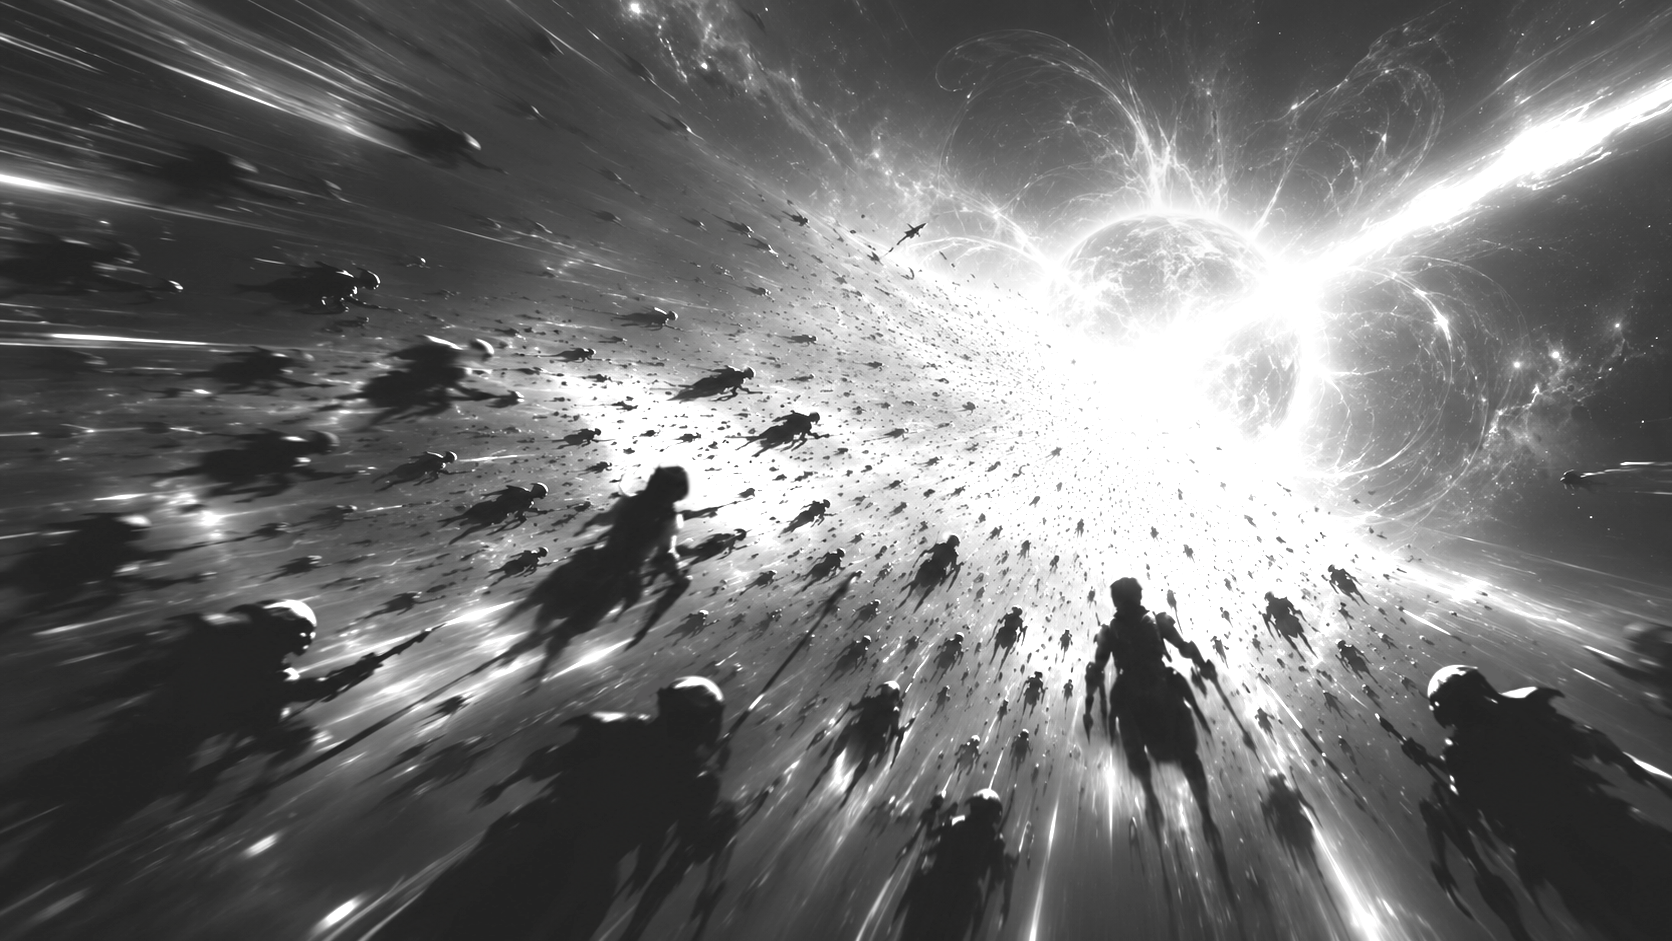
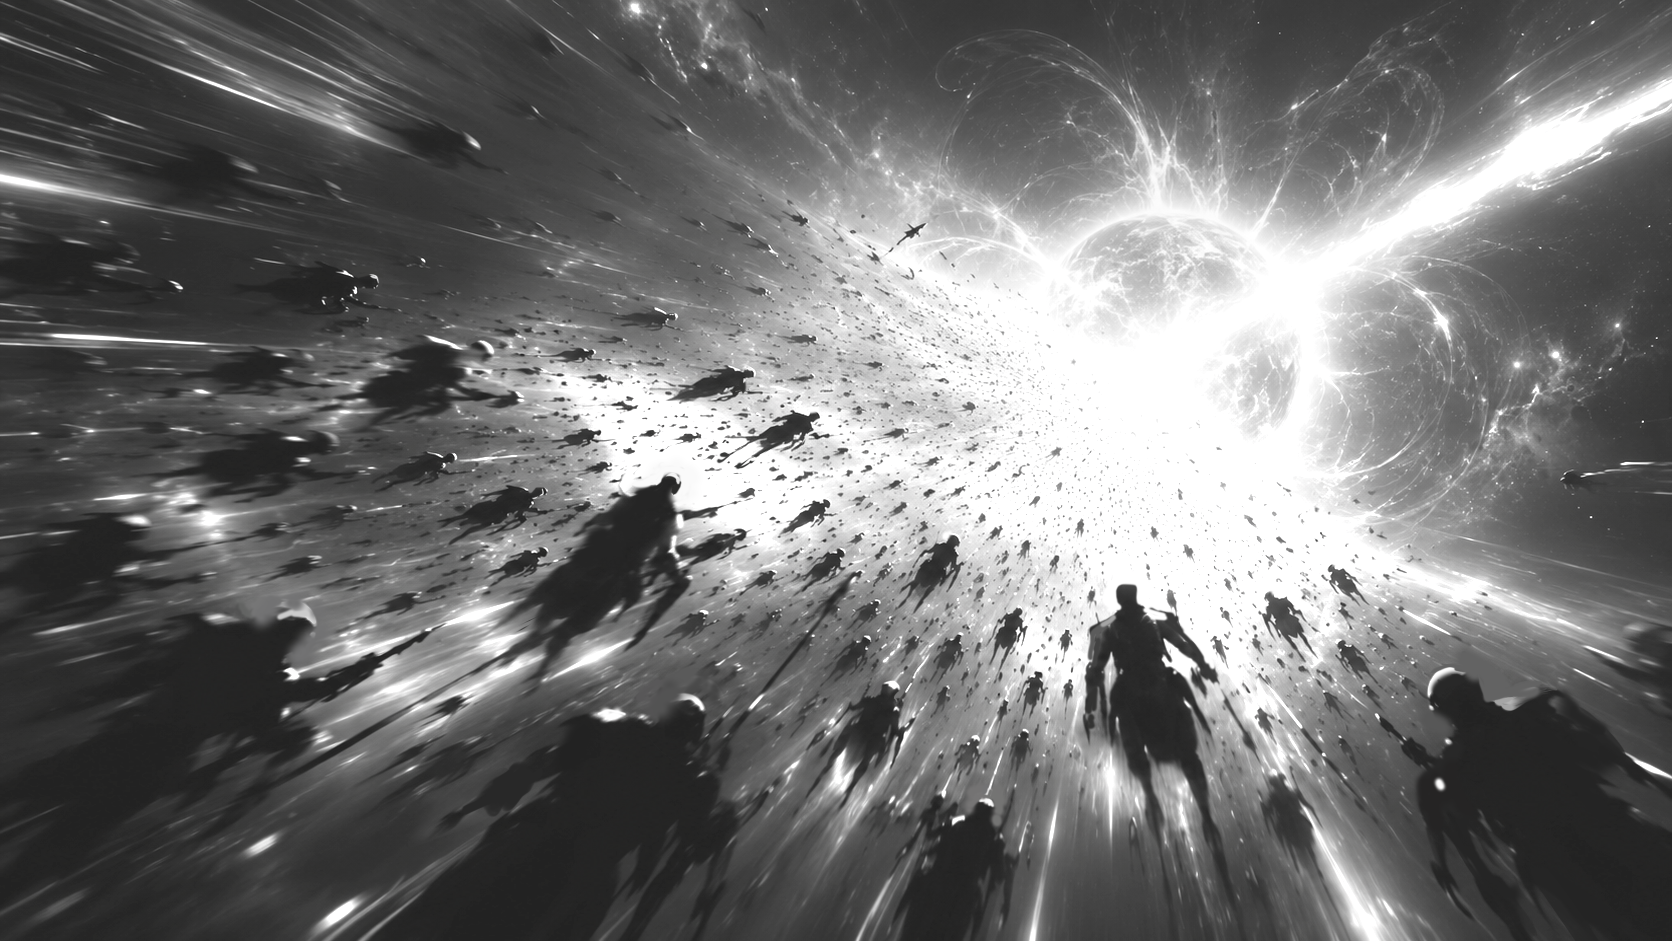
Add files via upload

diff --git a/URIER.html b/URIER.html
@@ -151,7 +151,7 @@
 									　　从主干道更深入往里走终于到了中央巢室，在这里遇到了几个岔口。<br>
 									　　大伙讨论后决定分成两组行动。亚瑟和蓋文本就都是非常优秀的帝国战士，由他们俩一组。水平在二人之上的元帅则和见习生走另一条路。<br><br>
 
-									　　身为虫族之首，他知道自己即将步上的是前往王室的通道。<br>
+									　　身为虫族之首，他知道这条通道便是通往王室的方向。<br>
 									　　王室相当于虫母与王虫的主宫室，最靠外的位置是王虫所在的大堂，更靠内是王虫的寝宫，最深处才是虫母所在的母巢，也是整个虫巢最核心的位置。<br>
 									　　通往王室的路线非常长，在真正进入王室以前还需要穿过几个宫室，这样的宫室是高阶虫族的主要活动区域，在整个虫巢中有成百上千个，主要集中于中央巢室，并且结构十分复杂。<br>
 									　　即便已经荒废多年仍然能够看出彼时的巍峨壮丽，时不时也会出现一些图像、雕刻，还有类似文字图样之类的痕迹，两人便会将一切记录下来。<br>
@@ -164,6 +164,7 @@
 
 									　　抵达的母巢侧室，这里破败得不成样子，倒塌的柱和墙掩埋了很多东西，需要更加耐心的搜索。<br>
 									　　乌利艾尔忍受着头疼在巨大的母巢中搜索。他的目光因被一个不起眼的位置吸引而定格——那是一具非成体<a href="世界观：深渊.html#帕瓦拉">帕瓦拉</a>的遗骸。看样子应该是在虫族离开以后才进入的，但无论如何这都十分异常。<br>
+									　　这是一种来自宇宙<a href="世界观：深渊.html">深渊</a>的生物，与虫族为互食关系。<br>
 									　　帕瓦拉虽然会为了狩猎虫族而短暂远离深渊入口，但据他所知距离这里最近的深渊入口少说也得在210万宙里外，这片星域应该绝非帕瓦拉的出没范围。<br>
 									　　更令人不安的是遗骸身上的那些痕迹，他再熟悉不过了。是帕瓦拉死亡后，一种与其共生的生物为了离开宿主所凿开的洞。<br>
 									　　他将精力全部投注在思考，并没有发现刚才的疼痛逐渐被一股热浪取代。当埃德蒙大致完成部分的搜索，准备去找另一边的少年时才意识到不对劲。<br><br>
@@ -250,7 +251,7 @@
 									　　既然Alpha不愿意那就算了，虽然意识和脚步还是有点飘忽，他也不想在这件事情上继续浪费时间。<br>									
 									　　他俯身观察，发觉这几只骰子还真不是普通得肥，至少在他121年的虫生都没看过这么肥美的。除了这两个人类和角落那只帕瓦拉以外，肯定还吃了其他好吃的。<br><br>
 																	
-									　　骰子的精神力能够影响虫族，导致致幻、兴奋的效果，不过这东西的智力不高，本体也很脆弱，平时都是依附着帕瓦拉生存。但这点要是被人类知道还被加以利用，事情可能会变得麻烦。<br>
+									　　骰子的精神力能够影响虫族，导致致幻、兴奋的效果，不过这东西的智力不高，本体也很脆弱，平时都是依附着帕瓦拉生存。但这点要是被人类知道还被加以利用，事情可能会变得复杂。<br>
 									　　现在最麻烦的是不知道闯进虫巢的帕瓦拉是否只有这一只，帕瓦拉作为深渊生物绝非人类肉身能够抗衡的，就连机甲足不足以对抗都是未知数，虫巢的空间也难以完全驱动机甲。<br><br>
 									
 									　　正思考着，一股热流伴随着眩晕又席卷而来。<br>
@@ -362,13 +363,61 @@
 									　　新的学期开始后，乌利艾尔的成绩相比于去年完全可以说是用突飞猛进来形容，上个学期拼死训练才拿到的综合第九如今都不值一提。<br>
 									　　临近成年，虫族的基因正以远超先前的速度校正这副人类躯体，照现在的走势，用不了多久他就能重新触及虫族的<a href="世界观：虫族.html#精神网">精神网</a>。<br><br>
 
-									　　乌利艾尔的新室友是一位Beta，对方就读的是科研学院，从此人身上他了解了更多关于虫母基因开发的项目。<br>
+									　　乌利艾尔的新室友是一位就读科研学院Beta，他从此人身上了解到更多关于虫母基因开发的项目。<br>
 									　　其中目前重点开发的是可以反向破坏虫族外骨骼的机甲武器。在前两次的虫族战争中，人类对虫族坚实的防御束手无策，如今也因为虫母有了突破。<br>
-									　　据说这种新型武器不止能适用于虫族，机甲本身的攻击性能也有显著的提升，只不过现在还无法得知这些项目的进度进展到什么程度。<br>									
-									　　由于活体虫母是重要的研究样本，所以现有用于实验的细胞都是以人工培育的为主。虫母本体则作为人类捕获过的最危险生物个体，目前被安置于某个最高保密层级的军事研究基地，除去参与研究计划的核心人员以及帝国高层，没有人知道具体地点。<br><br>
+									　　据说这种新型武器不止能适用于虫族，机甲本身的攻击性能也有显著的提升，只不过现在还无法得知这些项目进展到什么程度。<br>									
+									　　由于活体虫母是重要的研究样本，所以目前用于实验的细胞都是以人工培育的为主。虫母本体则作为人类捕获过的最危险生物个体，被安置于某个最高保密层级的军事研究基地，除去参与研究计划的核心人员以及帝国高层，没有人知道具体地点。<br><br>
 
-									　　另一方面，东境近期民用运输舰被星盗劫掠的事件频发。<br>
-									　　旧联邦分裂后，绝大部分被尤里奥统一为现在的帝国。而另一部分拒绝服从于帝国的军权则在外自立门户，久而久之演变为了所谓的星际海盗。<br>
+									　　另一方面，从几个月前开始，帝国东境近期民用运输舰被星盗劫掠的事件频发。<br>
+									　　旧联邦分裂后，绝大部分被尤里奥家族统一为现在的帝国。而另一部分拒绝服从于帝国的军权则在外自立门户，久而久之演变为掠夺资源、主导各种地下交易，为了利益可以不择手段<a href="世界观：星盗.html">星际海盗</a>。<br>
+									　　他们最大的特点便是强者为尊，只要一代领袖衰弱，马上就会有新的竞争者顶替上。所谓的服从都是建立在绝对的力量前，从不存在绝对的忠诚或背叛。<br><br>
+
+									　　只是近期出现的这批星盗与以往很反常，总是神出鬼没的。如果只是普通的跃迁势必会留下轨迹，可他们却每次都在帝国军队抵达前就如同人间蒸发一般消失得无影无踪。<br>
+									　　幸运得是这群人在星盗中应该只是些奔着劫财来的小喽喽，至今还没有造成什么严重的事故，死伤案例也不高，顶多就是些财务上的损失。<br>
+									　　扑了几次空以后，军方总算从各方线索里掌握了他们的聚点位置。<br><br>
+
+									　　完成本学期最后一门考试，乌利艾尔的智脑突然收到一条集合通知。现场聚集了十六个人，各个都是军校综合成绩名列前茅的明日之星。<br>
+									　　随着一声冷咳终止了学生们的话语声，一名年轻Alpha出现在视野，他们马上认出了这个人，是东境军的希拉里少校。<br>
+									　　只要是军校里的学生，没人不认识希拉里。在军校时就被誉为机甲天才的SS级Alpha，才进入军队四年就破了单人年捕获击杀星盗数最高的记录，年仅二十六岁已经获得少校军衔。<br><br>
+
+									　　希拉里宣布本次东境星盗的剿灭行动，在场将有四名学生共同前往。这在军校是常规操作，一些被认定强度较低的任务会让军校中成绩优秀的学生提早接触实战，如果在实战中表现良好对未来进入军队后会更有优势。<br>
+									　　会先由校方提供名单，再根据任务的人数选拔出适任者。毕竟实战是有一定危险性，所以选拔并非强制的，不过一般不会有人拒绝这种好机会。<br>
+									　　他们有几天时间可以考虑，选拔将在五日后进行。<br><br>
+
+									　　选拔日当天十六人全部出席，时间一到士官开始说明规则。<br>
+									　　本次採淘汰赛制，他们先被分为八组，两两进行机甲对战。上午为自由练习，选拔从下午开始正式开始。<br>
+									　　规则说明结束，乌利艾尔本打算观察一下环境，一道熟悉的身影出现在他眼前。<br>
+									　　札雷克也在十六人之中，他走到Omega面前，满脸不悦地邀请乌利艾尔去一旁私下谈话。<br><br>
+
+									　　两人来到一旁的树林，札雷克也懒得再拐弯抹角，开门见山地进入正题。<br>
+									　　起初，他只是用嘲讽的语气质问乌利艾尔，上次勘察的事还没闹够，这次居然还想参加选拔？乌利艾尔依旧面无表情，只冷冷回了几个字，言下之意无非就是关你屁事。<br>
+									　　札雷克额角青筋暴起。在许多Alpha眼中，Omega天生就是Alpha的所有物，即便两人还未完婚，也不会有任何区别。<br><br>
+
+									<i>　　<b>“</b>你退出吧。<b>”</b></i><br><br>
+
+									　　听到这命令般的雷霆发言，乌利艾尔发现他多年来养成对人类的高容忍度，好像要在今天被耗尽了。<br>
+									　　他之所以默认这门婚约，不过是因为等他回到虫族以后，这些事根本无关紧要。然而这一家人却一再越界，妄图插手他的生活，干涉他的选择。<br>
+									　　他欲言又止地打量了眼前的Alpha，最终什么也没说，转身便打算离开。实在不想和傻子浪费时间。<br><br>
+									
+									　　感Omega毫不掩饰的轻蔑终于彻底点燃了Alpha的怒火。软的行不通那就只能来硬的了。<br>
+									　　札雷克猛地扣住乌利艾尔的手腕，将他狠狠拽了回来。乌利艾尔猝不及防，身体一晃险些失去平衡。<br><br>
+
+									　　他低头看了眼紧扣在腕上的那只手，对方丝毫没有收力，骨节像是要将他的手腕捏碎。或许是因为有些吃痛，难得地竟也觉得有些上火。<br>
+									　　虽然还是同样的冷脸，但眼神明显更加冰冷，他发出最后的警告让对方撒手，然而愤怒早已冲垮了札雷克的理智。在他看来，自己的Omega一次又一次挑战着身为Alpha的权威。<br><br>
+
+									　　反正距离婚礼也不过剩下不到一年。<br>
+									　　与其继续任由其胡闹，不如干脆提前强制标记，让他彻底认清现实，放弃那些不切实际的妄想。札雷克心想。<br><br>
+
+									　　乌利艾尔猛地抽回自己的手，却发现丝毫挣脱不开。<br>
+									　　更糟的是一股极具侵略性的Alpha信息素骤然席卷而来，如同无形的锁链般缠绕住他的身体，将他严丝合缝地包裹其中。紧接着札雷克便猛地将他压倒在地。<br>
+									　　乌利艾尔眼底终于浮现怒意。即便Omega的身体素质天生无法与Alpha抗衡，但怎么也不能善罢甘休，两人在地上激烈地扭打起来。<br>
+									　　然而信息素带来的影响远比想象中来得更快。乌利艾尔只觉得体内骤然升起一股燥热，四肢迅速失去力气，连呼吸都变得紊乱。Alpha的信息素强行诱导着他的身体提前进入发情期，浓郁的蔷薇信息素再也违背了他的意志，如潮水般席卷而出，不受控制地回应着Alpha的信息素。<br>
+									　　空气中交缠的信息素愈发浓烈，Alpha的理智也随之被不断侵蚀。那股属于Omega的甜美气息近乎蛮横地刺激着他的本能，眼底仅剩下毫不掩饰的占有欲，恨不得立刻将眼前的Omega彻底据为己有。<br>
+									　　Alpha一把攥住Omega的双腕，强硬地压在头顶上方，任凭对方如何挣动都无法挣脱，另一只手不紧不慢地解开领口的纽扣。与此同时，他俯身埋入Omega的颈侧，近乎贪婪地汲取着那阵缓缓绽放的蔷薇气息。<br><br>
+
+									　　灼热的鼻息落在颈侧，那份强烈的羞辱感彻底撕开了他一直以来的克制。<br>
+									　　刹那间空气如同凝固，一股绝不属于人类的恐怖意识骤然降临。札雷克的动作猛地僵住，仿佛被某种凌驾于一切之上的存在踩在脚下，连挣扎的资格都没有。<br>
+									　　下一秒，那股意识强行侵入了他的意识。仿佛有无数无形的触须缠住了他的精神力，蛮横地撕扯和侵蚀。钻心的剧痛瞬间炸开，仿佛有某种力量正在他的脑中不断搅动。札雷克的瞳孔剧烈颤动，冷汗顺着额角不断滑落，却连半点声音都发不出来。
 								</p>
 								<footer>
 									<ul class="stats">

diff --git a/世界观：深渊.html b/世界观：深渊.html
@@ -112,15 +112,19 @@
 								<h3>深渊生物</h3>
 								<p><b  id="奥丁">【奥丁】</b>终渊<br>
 									　　个体，非群体生物。<br>
-									　　在曾经一段极度漫长岁月中称霸深渊的顶级掠食者，死后身体的大多被分食殆尽，剩下的部分残骸在广阔的宇宙中飘散，最终其中一块化作灭世的陨石降临旧地球。</p>								
+									　　在曾经一段极度漫长岁月中称霸终渊的深渊之王，死后身体的大多被分食殆尽，剩下的部分残骸在广阔的宇宙中飘散，最终其中一块化作灭世的陨石降临旧地球。</p>
+								<p><b  id="芬里尔">【芬里尔】</b>终渊<br>
+									　　个体，非群体生物。<br>									
+									　　杀死曾经的深渊主宰——奥丁，并将其吞噬的终渊巨兽。</p>
+								<p><b>【虫族】</b>幻渊<br>
+									　　古老的虫族曾经是幻渊生物，但后续向外迁徙，后续完全脱离了深渊。</p>	
 								<p><b  id="帕瓦拉">【帕瓦拉】</b>虚渊<br>
-									　　与虫族是世仇，天天打个没完的，经常是虫族占上风一点。<br>
-									　　虫族吃帕瓦拉可以靠吞噬进化，帕瓦拉的基因可以帮助他们代谢掉本身致命的物质。而虫族对帕瓦拉来说就像是营养又美味的香辣条。<br>
-									　　平时除了打虫族，也会出渊在入口附近觅食，但还从未进入过人类的生存范围。<br>　　据说虫族也曾是深渊生物，但后续向外迁徙，后续完全脱离了深渊。<br>
+									　　与虫族是互食关系，天天打个没完的，经常是虫族占上风一点。<br>
+									　　平时除了打虫族，也会出渊在入口附近觅食，但还从未进入过人类的生存范围。<br>
 									　　人类会被他侵蚀精神力。</p>
 								<p><b  id="骰子">【骰子】</b>虚渊<br>
-									　　与帕瓦拉是共生关系，本身很弱小，即便是人类也能杀死，但他们的精神力也会与虫族产生共鸣，有致幻兴奋效果。与骰子共生的帕瓦拉及击杀虫族的概率明显更高，但不知道是好是坏，因为致幻buff虫族容易越打越上头。</p>
-
+									　　虚渊的一种小型生物，与帕瓦拉是共生关系，一生中的大部分時間都附著在宿主身上，以宿主食物中的顆粒物為食。<br>
+									　　本身很弱小，即便是人类也能杀死，但他们的精神力也会与虫族产生共鸣，有致幻兴奋效果。与骰子共生的帕瓦拉及击杀虫族的概率明显更高，但不知道是好是坏，因为致幻buff虫族容易越打越上头。</p>
 								<footer>
 									<ul class="stats">
 										<li><a href="世界观.html">世界观</a></li>

diff --git a/人物构成.html b/人物构成.html
@@ -163,7 +163,7 @@
 								<h3>奥丁</h3>
 								<p>【位置】终渊<br>　　在曾经一段极度漫长岁月中称霸深渊的顶级掠食者，死后身体的大多被分食殆尽，剩下的部分残骸在广阔的宇宙中飘散，最终其中一块化作灭世的陨石降临旧地球。</p>
 								<h3>帕瓦拉</h3>
-								<p>【分布】虚渊<br>　　与虫族是世仇了，天天打个没完的，经常是虫族占上风一点。<br>　　虫族吃帕瓦拉可以靠吞噬进化，帕瓦拉的基因可以帮助他们代谢掉本身致命的物质。而虫族对帕瓦拉来说就像是营养又美味的香辣条。</p>
+								<p>【分布】虚渊<br>　　与虫族是互食关系，天天打个没完的，经常是虫族占上风一点。<br>　　平时除了打虫族，也会出渊在入口附近觅食，但还从未进入过人类的生存范围。</p>
 								<p>　　平时除了打虫族，也会出渊在入口附近觅食，但还从未进入过人类的生存范围。<br>　　据说虫族也曾是深渊生物，但后续向外迁徙，后续完全脱离了深渊。</p>
 								<p>　　人类会被他侵蚀精神力。</p>
 								<h3>骰子</h3>

diff --git a/世界观：帝国.html b/世界观：帝国.html
@@ -139,7 +139,7 @@
 								<hr />
 								<h3>精神力</h3>
 								<p>精神力是一种靠意念具象化操控的不可视能力，也是机甲战斗力的重要来源之一。精神力越强，与机甲的同步率就越高，能发挥出越强大的机动性和战斗力。<br>分为六个等级，从高到低分别为SS/S/A/B/C/D。</p>
-								<h4>SS级</h4><p>仅占α/ω总人口的2.65兆分之一，且绝大多数是Alpha。<br>（星球平均0.00059人/星球总人口占0.000000001%/总人口占9360人）</p>
+								<h4>SS级</h4><p>仅占α/ω总人口的2.65兆分之一，且绝大多数是Alpha。<br>（星球平均0.00059人/星球总人口占0.000000001%/总人口占9000人）<br>实际上处于青壮年的人数约只有5200人。</p>
 								<h4>S级</h4><p>约占α/ω总人口的400万分之一。<br>（星球平均392人/星球总人口占0.000331%/总人口占62亿人）</p>
 								<h4>A级</h4><p>约占α/ω总人口的1.1%。<br>（星球平均1727万人/星球总人口占0.29%/总人口占273兆人）</p>
 								<h4>B级</h4><p>约占α/ω总人口的18.5%。<br>（星球平均2.9亿人/星球总人口占4.9%/总人口占4585兆人）</p>

diff --git a/art插图.html b/art插图.html
@@ -96,7 +96,7 @@
 								<header>
 									<div class="title">
 										<h2><a href="#">插图</a></h2>
-										<p>随便放点……</p>
+										<p>有什么吃什么</p>
 									</div>
 								</header>
 <section id="viewpicture">
@@ -108,9 +108,13 @@
 							</article>
 							<article class="col-2 col-2-5-xlarge col-3-large col-4-medium col-6-small col-12-xsmall work-item">
 								<a href="album/插图/1.jpeg" class="image fit thumb"><img src="album/插图/1.jpeg" alt="" /></a>
-								<h3>帝国废稿</h3>
-								<p>两模两样……</p>
-							</article>	
+								<h3>帝国弃稿</h3>
+								<p>来什么吃什么吧_(:3JL)_</p>
+							</article>
+							<article class="col-2 col-2-5-xlarge col-3-large col-4-medium col-6-small col-12-xsmall work-item">
+								<a href="album/插图/2.jpeg" class="image fit thumb"><img src="album/插图/2.jpeg" alt="" /></a>
+								<h3>虫巢</h3>
+							</article>
 						</div>
 					</section>						
 

diff --git a/世界观：虫族.html b/世界观：虫族.html
@@ -102,7 +102,7 @@
 										<a href="#" class="author"><span class="name">已己巳己巴</span><img src="images/avatar.jpg" alt="" /></a>
 									</div>
 								</header>
-								<span class="image featured"><img src="images/pic04.jpg" alt="" /></span>
+								<span class="image featured"><img src="album/插图/2.jpeg" alt="" /></span>
 								<p>总之，还没决定是什么虫。多数都是白蚁的延伸设定，还想融一点蚂蚁，如果要搞嵌合体外观还想再融一个飞蛾。</p>
 								<p>族群数量不多，但分布范围极广。<br>不同的种群领地通常相隔数个星系，除非到了婚配期不然基本见不到面，互不干涉。</p>
 								<p>据说虫族也是诞生与深渊的生命，但后来逐渐迁徙至深渊外。与虚渊生命帕瓦拉是世（食）仇（物），经常互相找上去掐架。</p>

diff --git a/art.html b/art.html
@@ -113,7 +113,7 @@
 										<div class="grid">
 											<div class="cell" style="background-image:url(./album/插图/G1.png)"></div>
 											<div class="cell" style="background-image:url(./album/插图/1.jpeg)"></div>
-											<div class="cell" style="background-image:url()"></div>
+											<div class="cell" style="background-image:url(./album/插图/2.jpeg)"></div>
 											<div class="cell" style="background-image:url()"></div>
 										</div>
 										<div class="albumtitle">插图</div>
